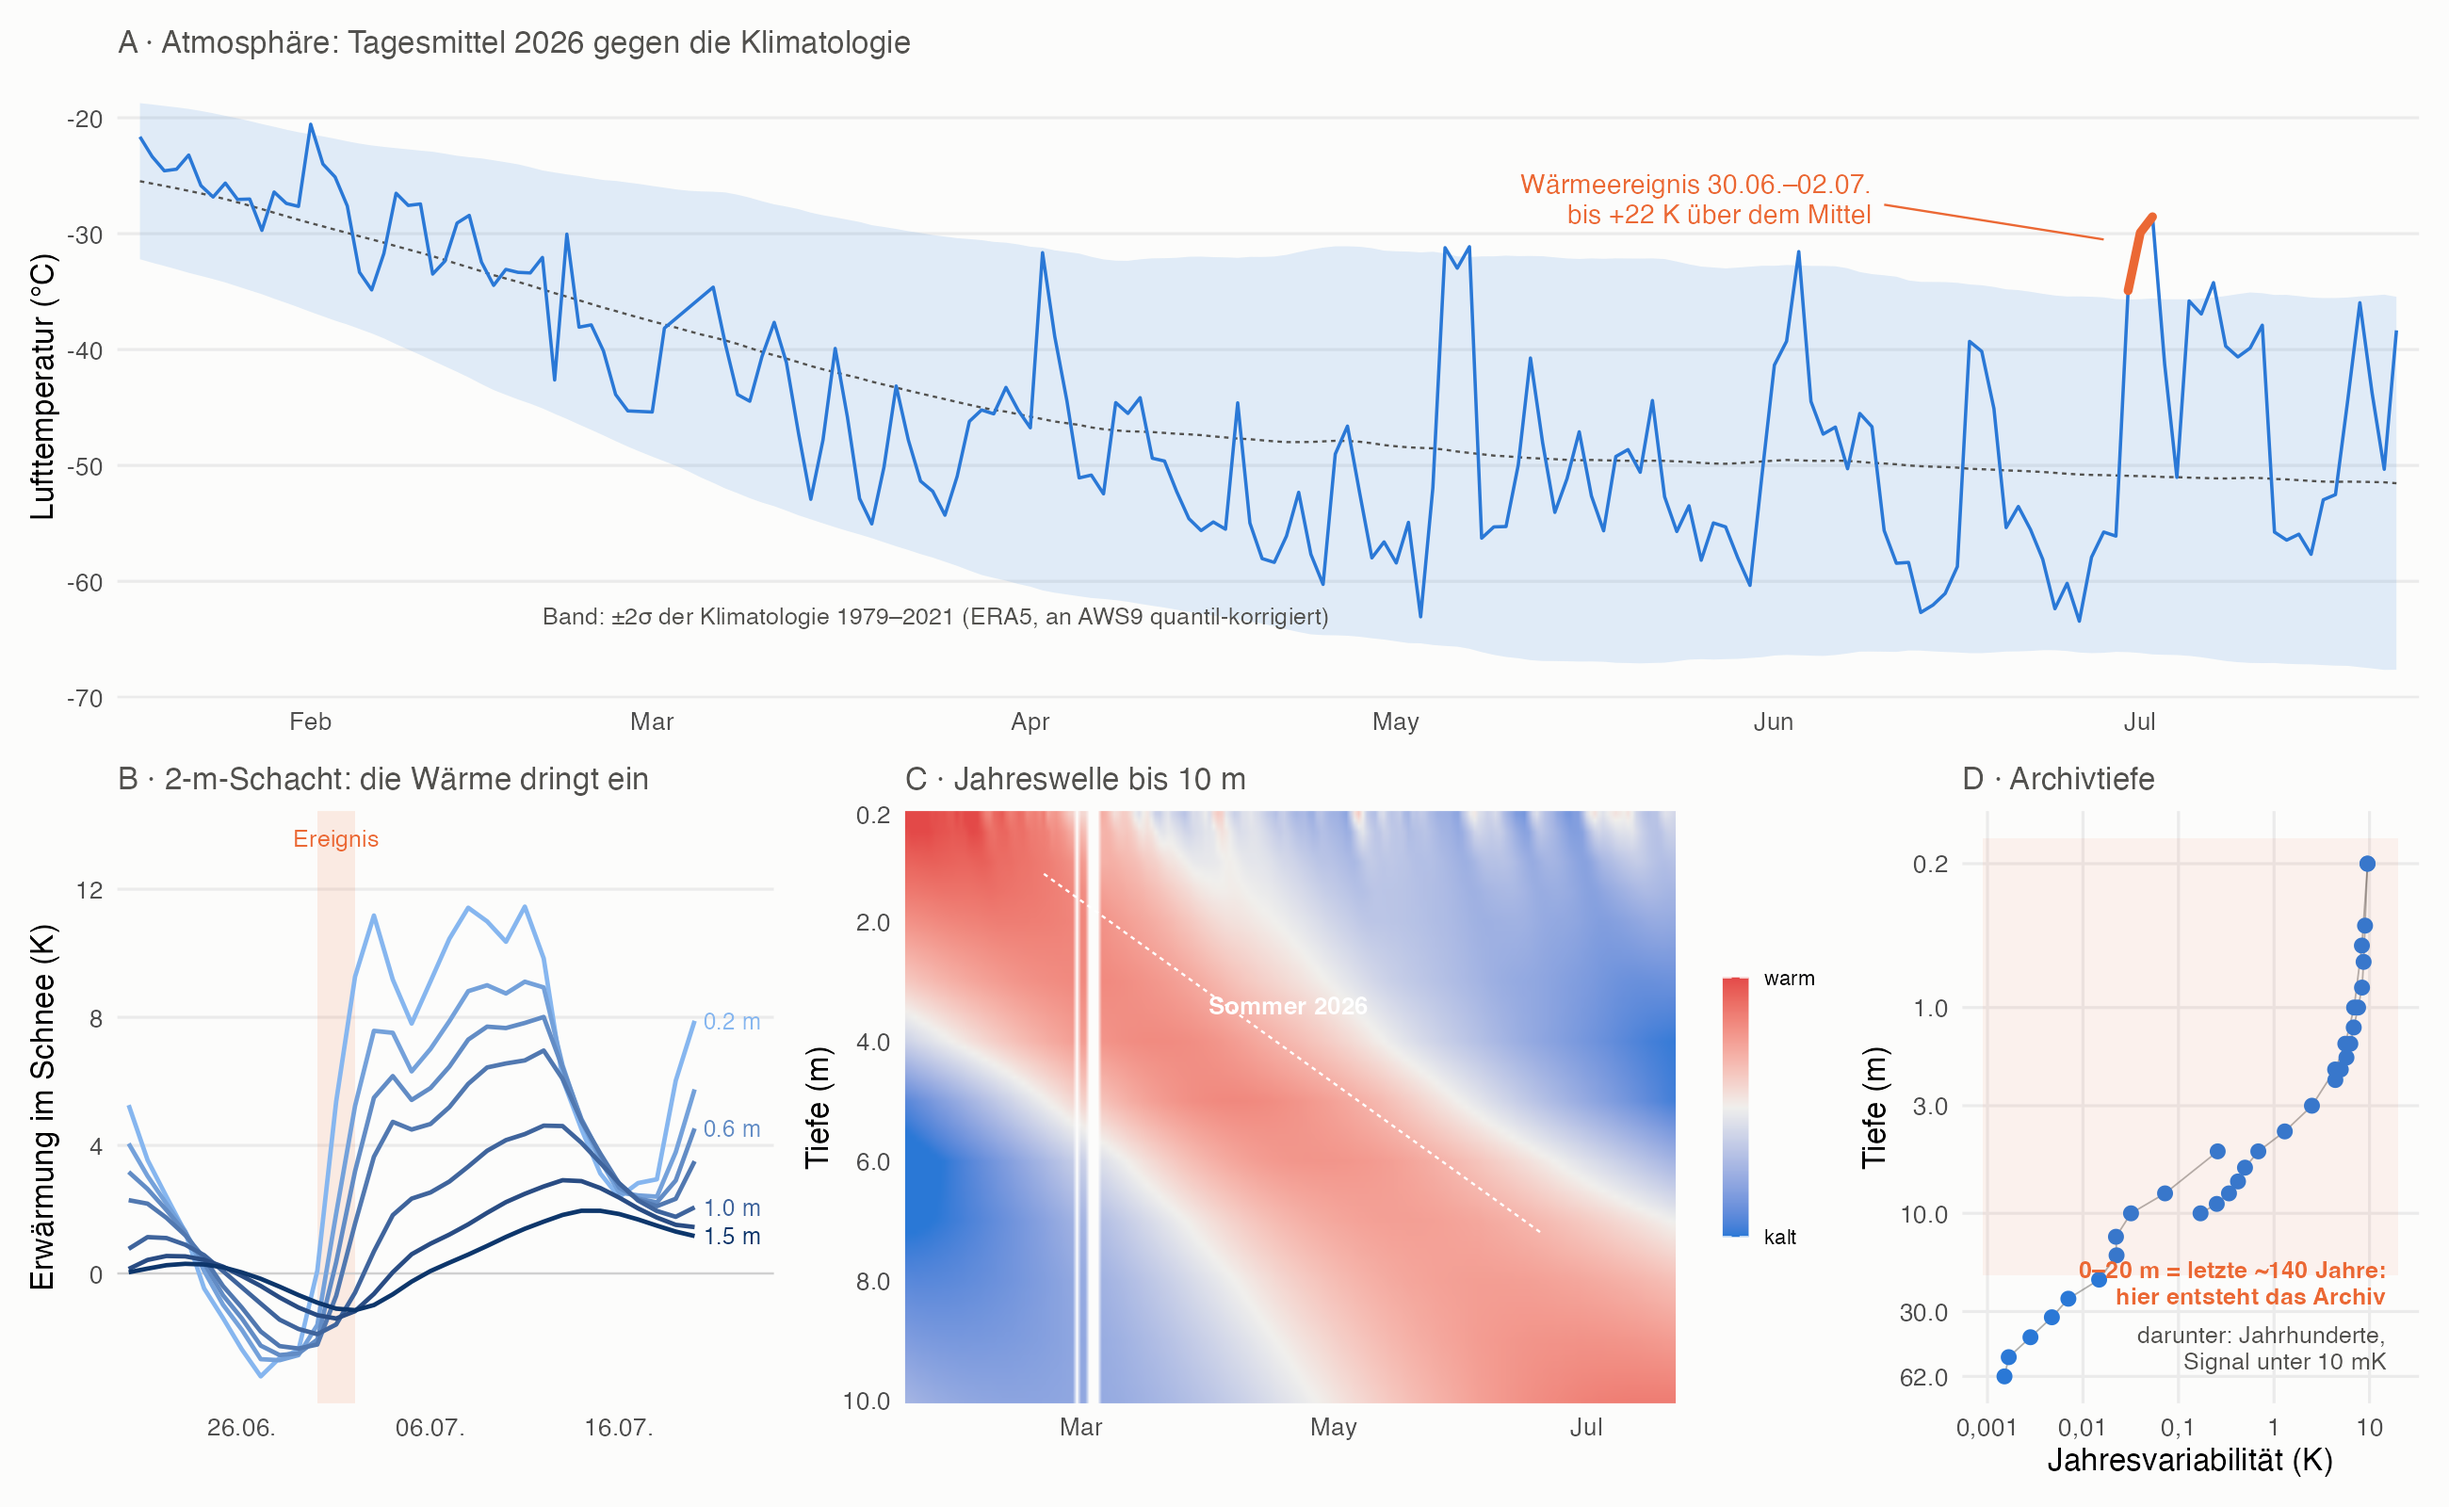
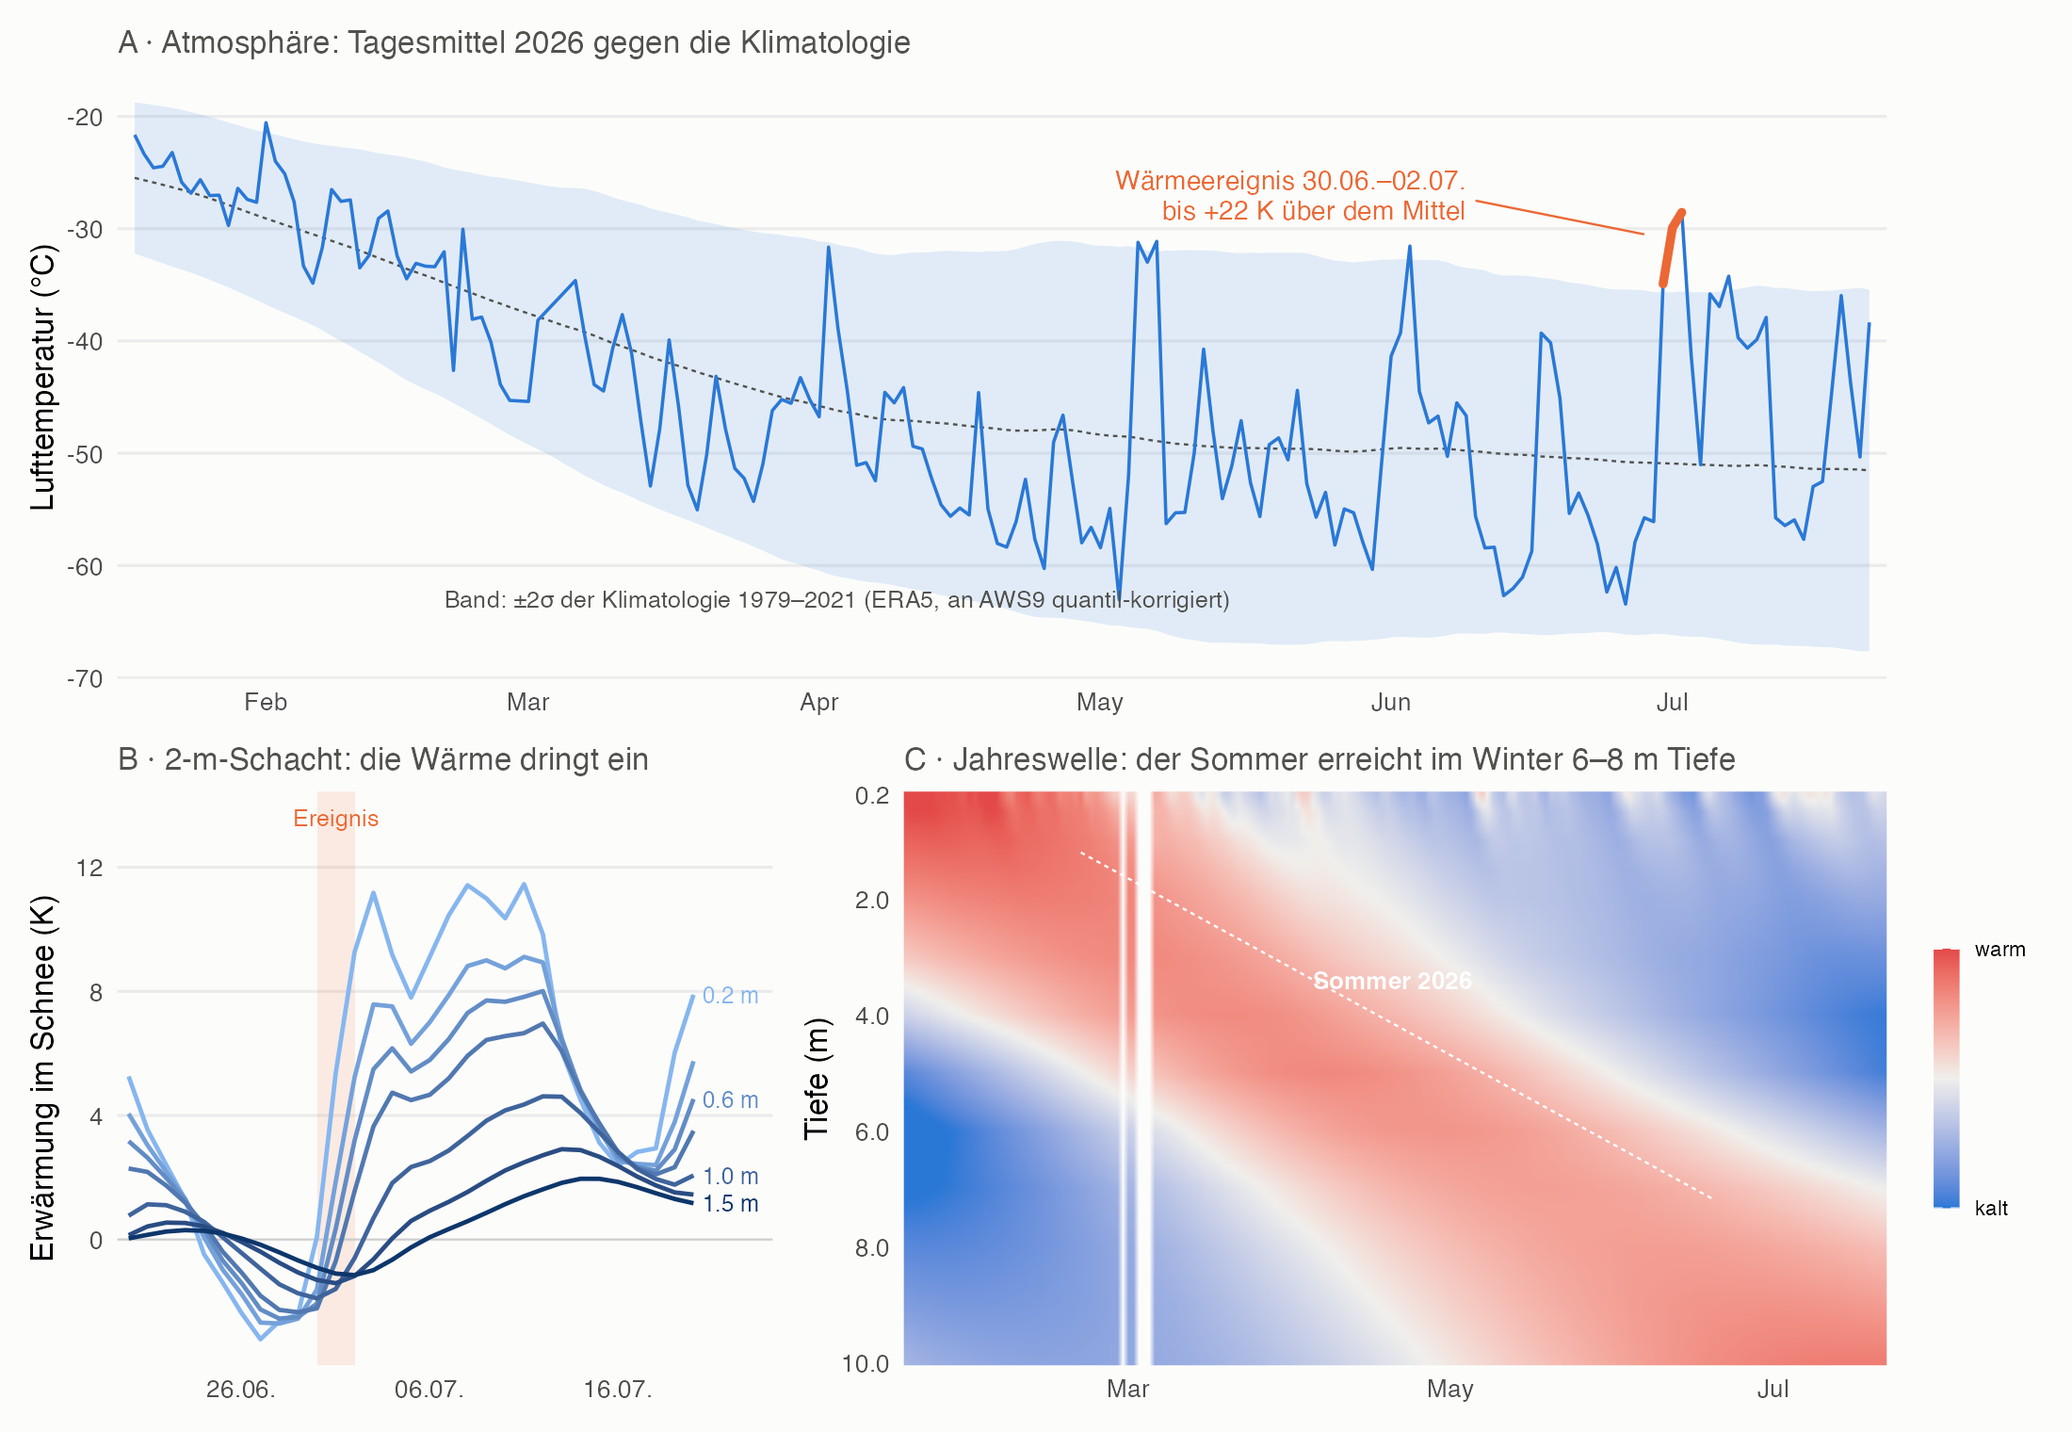
fig1: drop panel D, three panels instead of four
The depth/amplitude panel is cut from the layout (code kept in the
script); the figure now runs atmosphere -> 2 m pit -> annual wave, and
the 62 m / 10 mK point moved into the caption.

diff --git a/figures/README.md b/figures/README.md
@@ -5,16 +5,15 @@ Aufruf aus diesem Ordner: `Rscript make_fig1_kohnen.R` bzw. `Rscript make_fig2_n
 
 ## fig1_kohnen.png — „Was an Kohnen passiert, und was wir davon messen"
 
-Ein Winter an Kohnen, gemessen von der Luft bis 62 m Tiefe. **(A)** Tagesmittel der
+Ein Winter an Kohnen, gemessen von der Luft bis in den Firn. **(A)** Tagesmittel der
 Lufttemperatur 2026 gegen die Klimatologie 1979–2021 (Band = ±2σ; ERA5, mit den
 Stationsdaten der AWS9 quantil-korrigiert). Ende Juni erreicht ein Warmluftvorstoß
 **bis +22 K über dem Mittel**. **(B)** Derselbe Vorstoß im 2-m-Schacht: die Wärme dringt
 in den Schnee ein — nach zwei Tagen steht sie bei 0,8 m, nach zehn bei 1,5 m, gedämpft
 von 12 K auf 2 K. **(C)** Auf der Jahresskala dasselbe Prinzip: die Sommerwärme von
 Januar/Februar wandert nach unten und erreicht **im Winter 6–8 m Tiefe** (standardisiert
-je Tiefe, sonst wäre die Welle unterhalb weniger Meter unsichtbar). **(D)** Über die
-gesamte Kette fällt die Jahresvariabilität um **vier Größenordnungen**, von 10 K an der
-Oberfläche auf unter 10 mK unterhalb 30 m.
+je Tiefe, sonst wäre die Welle unterhalb weniger Meter unsichtbar). Dieselbe Kette misst
+weiter bis 62 m, wo das Jahressignal auf unter 10 mK gedämpft ist.
 
 **Warum die oberen 10–20 m zählen:** Dort entsteht das Eiskernarchiv. Die
 Firntemperatur steuert die Isotopendiffusion und den Dampftransport, die das Klimasignal
